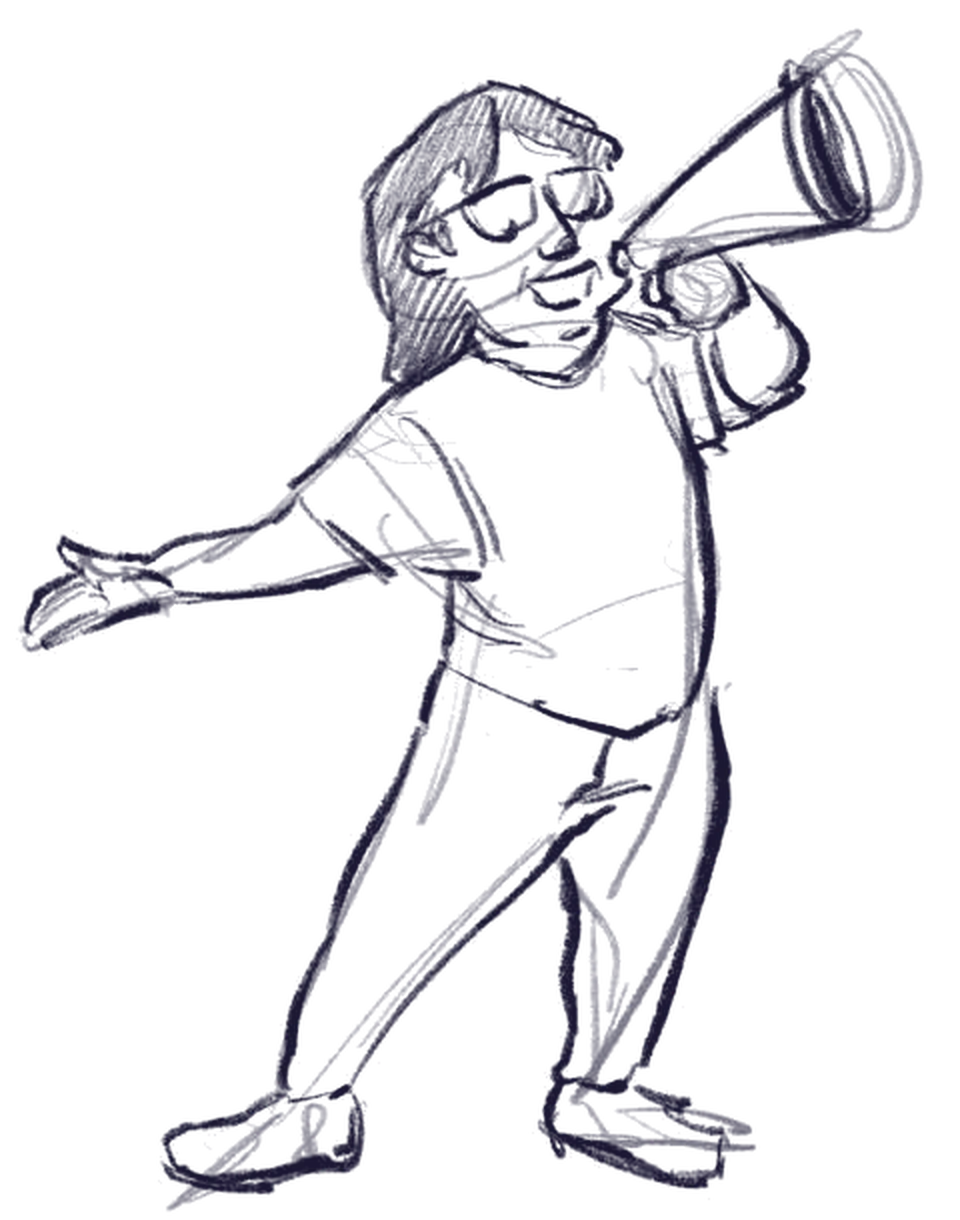
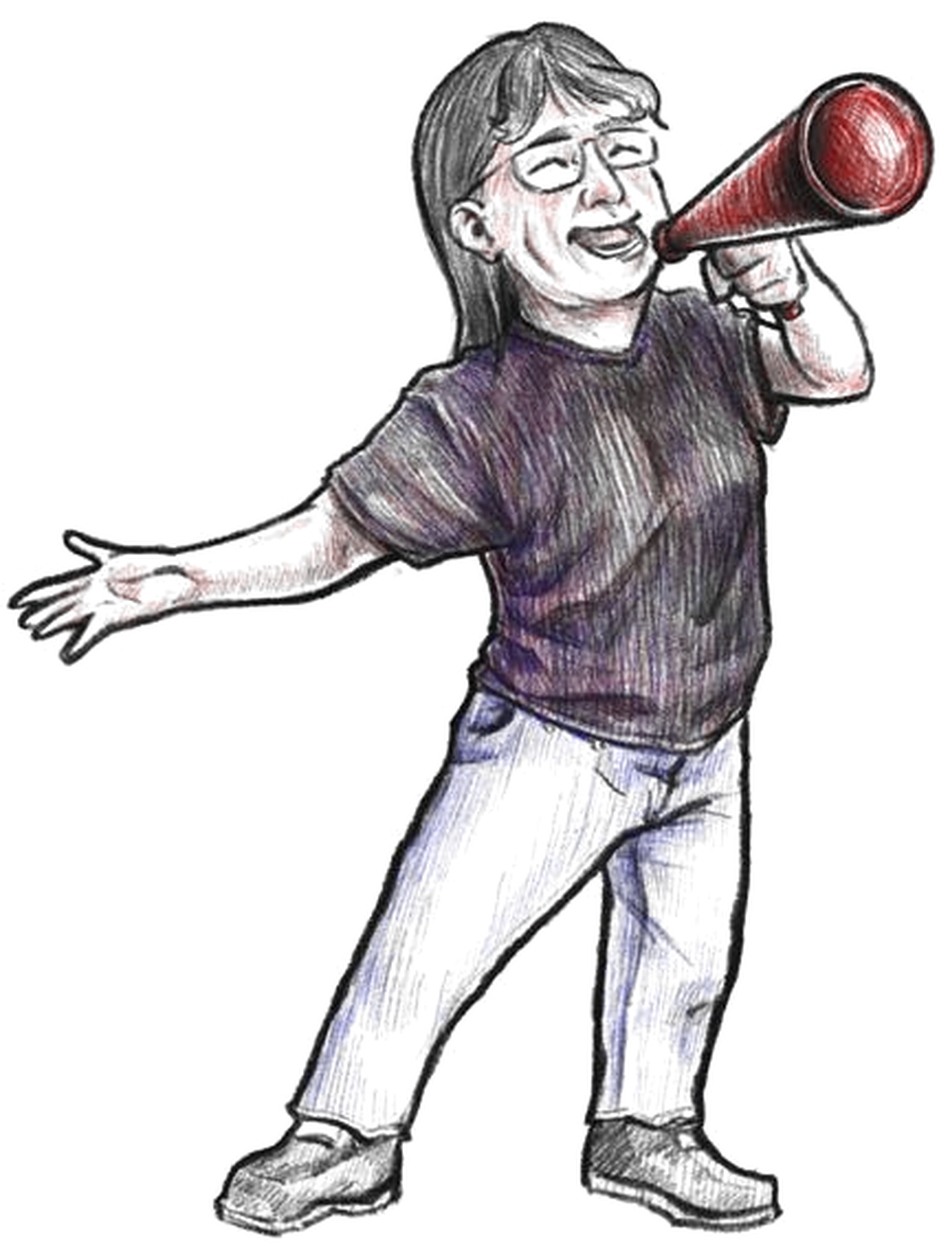
Aperçu : visuel final de Muss (personnage de l'accueil en couleur, mention croquis retirée), dépliant à jour avec le nouveau visuel
Claude-Session: https://claude.ai/code/session_01S2GuEgA2Uqk7TYUGwtDfXJ

diff --git a/apercu/style.css b/apercu/style.css
@@ -514,12 +514,11 @@ html[data-sections=nuit][data-theme=clair] .pratique .carteG,html[data-sections=
 .logoTheatricul{display:block;width:min(320px,70%);height:auto;margin:0 0 14px;mix-blend-mode:multiply}
 html[data-theme=nuit] .logoTheatricul{mix-blend-mode:normal;filter:invert(1);opacity:.9}
 
-/* Accueil : le petit personnage de l'illustrateur à la place du soleil (croquis en attendant la version finale, photos/illustration.webp, fond transparent) */
+/* Accueil : le petit personnage du visuel de Muss à la place du soleil (photos/illustration.webp, fond transparent) */
 .hero .croquis{position:absolute;right:max(24px,calc(50% - 520px));top:50%;transform:translateY(-56%);height:min(78%,430px);margin:0;pointer-events:none;z-index:0}
 .hero .croquis img{height:100%;width:auto;display:block}
 .hero .croquis .ast{position:absolute;top:6%;right:4%;font:800 30px/1 Fraunces,serif;color:var(--magenta)}
 .hero .croquis figcaption{position:absolute;left:0;right:0;top:100%;margin-top:4px;text-align:center;z-index:3;font:400 11px/1.3 "Space Mono",monospace;letter-spacing:.04em;opacity:.75;white-space:nowrap}
-html[data-theme=nuit] .hero .croquis img{filter:invert(1)}
 @media (max-width:860px){.hero .croquis{position:relative;display:block;right:auto;top:auto;transform:none;height:auto;width:min(64%,280px);margin:26px auto 0}.hero .croquis img{width:100%;height:auto}.hero .croquis figcaption{position:static}}
 
 /* Grille de tarifs (tarif sur plusieurs lignes) */

diff --git a/apercu/depliant/index.html b/apercu/depliant/index.html
@@ -23,8 +23,8 @@ a{color:#6b2cff}
 </head>
 <body>
 <main>
-<a class="img" href="depliant-exterieur.webp?v=202611122355"><img src="depliant-exterieur.webp?v=202611122355" alt="Dépliant du P’tit Festival, extérieur : présentation, programme jour par jour, couverture" width="2573" height="1819"></a>
-<a class="img" href="depliant-interieur.webp?v=202611122355"><img src="depliant-interieur.webp?v=202611122355" alt="Dépliant du P’tit Festival, intérieur : les spectacles, avec photos, dates et tarifs" width="2573" height="1819"></a>
+<a class="img" href="depliant-exterieur.webp?v=202611132254"><img src="depliant-exterieur.webp?v=202611132254" alt="Dépliant du P’tit Festival, extérieur : présentation, programme jour par jour, couverture" width="2573" height="1819"></a>
+<a class="img" href="depliant-interieur.webp?v=202611132254"><img src="depliant-interieur.webp?v=202611132254" alt="Dépliant du P’tit Festival, intérieur : les spectacles, avec photos, dates et tarifs" width="2573" height="1819"></a>
 </main>
 </body>
 </html>

diff --git a/apercu/index.html b/apercu/index.html
@@ -46,7 +46,7 @@
     <p class="ou" id="heroLieu"></p>
     <p class="actions"><a class="btn" href="programme.html">Voir le programme</a> <a class="btn contour" href="festival.html">Découvrir le festival</a></p>
   </div>
-  <figure class="croquis"><img id="heroIllu" src="photos/illustration.webp" alt="" aria-hidden="true" width="960" height="1220"><span class="ast" aria-hidden="true">*</span><figcaption>* Croquis, en attente du visuel final</figcaption></figure>
+  <figure class="croquis"><img id="heroIllu" src="photos/illustration.webp?v=muss" alt="" aria-hidden="true" width="950" height="1247"></figure>
 </section>
 <section class="bande pres" id="presentation">
   <div class="int cols2">
